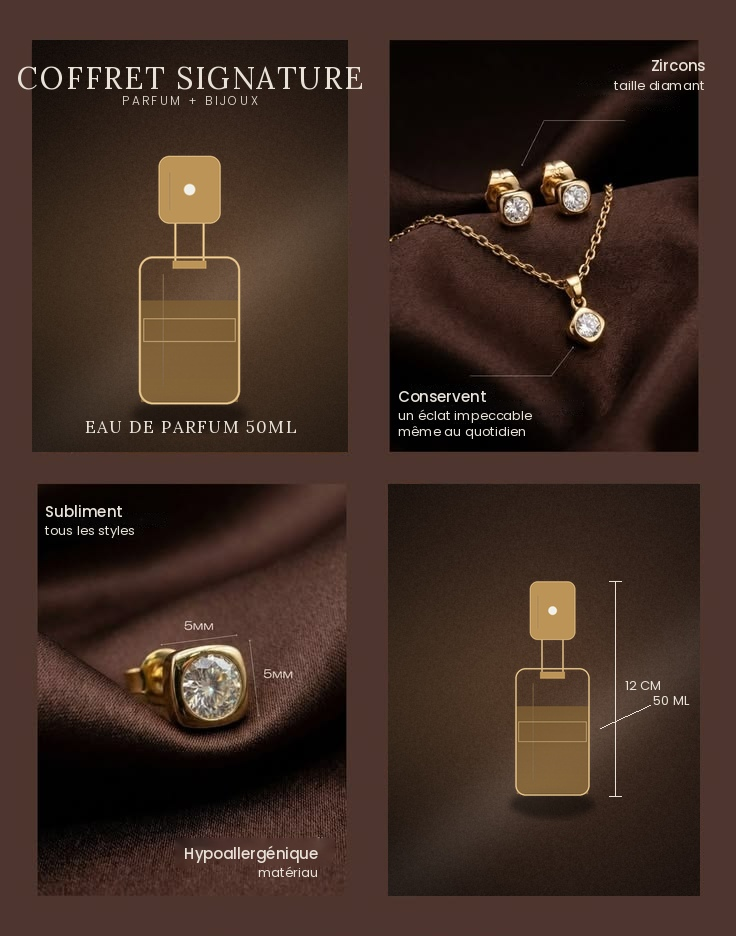
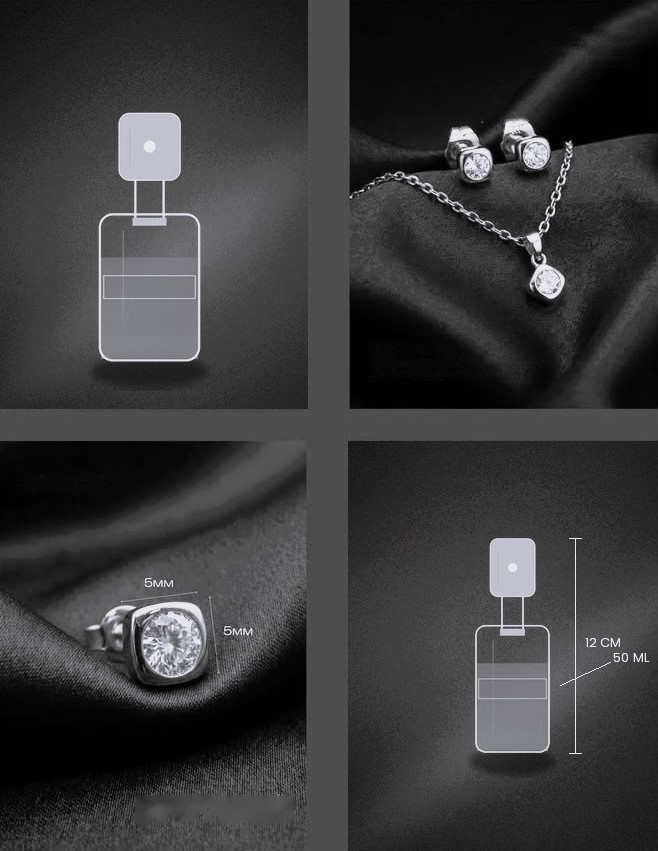
changes

diff --git a/components/shared/Footer.tsx b/components/shared/Footer.tsx
@@ -101,6 +101,21 @@ export function Footer() {
                   <path fill="#fff" fill-rule="evenodd" d="M19.268,16.045c-0.355-0.79-0.729-0.806-1.068-0.82c-0.277-0.012-0.593-0.011-0.909-0.011c-0.316,0-0.83,0.119-1.265,0.594c-0.435,0.475-1.661,1.622-1.661,3.956c0,2.334,1.7,4.59,1.937,4.906c0.237,0.316,3.282,5.259,8.104,7.161c4.007,1.58,4.823,1.266,5.693,1.187c0.87-0.079,2.807-1.147,3.202-2.255c0.395-1.108,0.395-2.057,0.277-2.255c-0.119-0.198-0.435-0.316-0.909-0.554s-2.807-1.385-3.242-1.543c-0.435-0.158-0.751-0.237-1.068,0.238c-0.316,0.474-1.225,1.543-1.502,1.859c-0.277,0.317-0.554,0.357-1.028,0.119c-0.474-0.238-2.002-0.738-3.815-2.354c-1.41-1.257-2.362-2.81-2.639-3.285c-0.277-0.474-0.03-0.731,0.208-0.968c0.213-0.213,0.474-0.554,0.712-0.831c0.237-0.277,0.316-0.475,0.474-0.791c0.158-0.317,0.079-0.594-0.04-0.831C20.612,19.329,19.69,16.983,19.268,16.045z" clip-rule="evenodd"></path>
                 </svg>
               </a>
+              {/* TikTok */}
+              <a
+                href="https://www.tiktok.com/@accessoires_exclusifs"
+                target="_blank"
+                rel="noopener noreferrer"
+                className="p-2 bg-foreground/5 hover:bg-foreground/10 rounded-xl transition-all hover:scale-105"
+                aria-label="TikTok"
+              >
+                <svg xmlns="http://www.w3.org/2000/svg" viewBox="0 0 48 48" className="w-5 h-5">
+                  <path fill="#212121" fillRule="evenodd" d="M10.904,6h26.191C39.804,6,42,8.196,42,10.904v26.191C42,39.804,39.804,42,37.096,42H10.904C8.196,42,6,39.804,6,37.096V10.904C6,8.196,8.196,6,10.904,6z" clipRule="evenodd" />
+                  <path fill="#ec407a" fillRule="evenodd" d="M29.208,20.607c1.576,1.126,3.507,1.788,5.592,1.788v-4.011c-.395,0-.788-.041-1.174-.123v3.157c-2.085,0-4.015-.663-5.592-1.788v8.184c0,4.094-3.321,7.413-7.417,7.413-1.528,0-2.949-.462-4.129-1.254 1.347,1.376,3.225,2.23,5.303,2.23 4.096,0,7.417-3.319,7.417-7.413V20.607z" clipRule="evenodd" />
+                  <path fill="#fff" fillRule="evenodd" d="M28.034,19.63c1.576,1.126,3.507,1.788,5.592,1.788v-3.157c-1.164-.248-2.194-.856-2.969-1.701-1.326-.827-2.281-2.191-2.561-3.788h-2.923V28.79c-.007,1.867-1.523,3.379-3.393,3.379-1.102,0-2.081-.525-2.701-1.338-1.107-.558-1.866-1.705-1.866-3.029 0-1.873,1.519-3.391,3.393-3.391.359,0,.705.056,1.03.159V21.38c-4.024.083-7.26,3.369-7.26,7.411 0,2.018.806,3.847,2.114,5.183 1.18.792,2.601,1.254,4.129,1.254 4.096,0,7.417-3.319,7.417-7.413V19.63z" clipRule="evenodd" />
+                  <path fill="#81d4fa" fillRule="evenodd" d="M33.626,18.262v-.854c-1.05.002-2.078-.292-2.969-.848.788.863,1.826,1.458,2.969,1.702z M28.095,12.772c-.027-.153-.047-.306-.061-.461v-.516h-4.036v16.019c-.006,1.867-1.523,3.379-3.393,3.379-.549,0-1.067-.13-1.526-.362.62.813,1.599,1.338,2.701,1.338 1.87,0,3.386-1.512,3.393-3.379V12.772h2.922z M21.635,21.38v-.909c-.337-.046-.677-.069-1.018-.069-4.097,0-7.417,3.319-7.417,7.413 0,2.567,1.305,4.829,3.288,6.159-1.308-1.336-2.114-3.165-2.114-5.183 0-4.042,3.237-7.328,7.261-7.411z" clipRule="evenodd" />
+                </svg>
+              </a>
             </div>
           </div>
 

diff --git a/services/fcmService.ts b/services/fcmService.ts
@@ -25,7 +25,6 @@ import {
 } from 'firebase/messaging';
 import { firebaseApp } from '@/lib/firebase';
 import { deviceService } from './deviceService';
-import { useToastStore } from '@/store/useToastStore';
 import type { User } from '@/types';
 
 /**
@@ -225,7 +224,6 @@ async function initializeFCMInternal(user: User | null): Promise<string | null> 
     const permission = await requestNotificationPermission();
     if (permission !== 'granted') {
       console.warn('[FCM Service] Notification permission not granted');
-      useToastStore.getState().addToast("Autorisation de notification refusée. Veuillez activer les notifications dans les paramètres de votre navigateur.", 'info');
       return null;
     }
 
@@ -233,7 +231,6 @@ async function initializeFCMInternal(user: User | null): Promise<string | null> 
     const swRegistration = await registerServiceWorker();
     if (!swRegistration) {
       console.warn('[FCM Service] Failed to register Service Worker');
-      useToastStore.getState().addToast("Échec de l'activation des notifications push (erreur Service Worker).", 'error');
       return null;
     }
 
@@ -241,7 +238,6 @@ async function initializeFCMInternal(user: User | null): Promise<string | null> 
     const messaging = getFirebaseMessaging();
     if (!messaging) {
       console.error('[FCM Service] Failed to get Firebase messaging instance');
-      useToastStore.getState().addToast("Échec de l'activation des notifications (Firebase non disponible).", 'error');
       return null;
     }
 
@@ -253,7 +249,6 @@ async function initializeFCMInternal(user: User | null): Promise<string | null> 
 
     if (!token) {
       console.warn('[FCM Service] Failed to retrieve FCM token');
-      useToastStore.getState().addToast("Aucun identifiant de notification reçu de Firebase.", 'error');
       return null;
     }
 
@@ -264,16 +259,13 @@ async function initializeFCMInternal(user: User | null): Promise<string | null> 
     // 5. Register device with backend
     try {
       await deviceService.registerDevice(token);
-      useToastStore.getState().addToast("Notifications push configurées avec succès sur cet appareil !", 'success');
     } catch (error) {
       console.warn('[FCM Service] Failed to register device with backend:', error);
-      useToastStore.getState().addToast("Notifications obtenues localement mais échec de la synchronisation avec le serveur.", 'info');
     }
 
     return token;
   } catch (error: any) {
     console.error('[FCM Service] Error during FCM initialization:', error);
-    useToastStore.getState().addToast(`Erreur d'initialisation des notifications: ${error.message || error}`, 'error');
     return null;
   }
 }

diff --git a/components/shared/Navbar.tsx b/components/shared/Navbar.tsx
@@ -25,6 +25,7 @@ const NAV_LABEL_MAP: Record<string, { fr: string; en: string }> = {
   '/shop/accessories': { fr: 'Accessoires', en: 'Accessories' },
   '/shop/perfumes': { fr: 'Parfumerie', en: 'Perfumes' },
   '/shop/diffuseurs': { fr: 'Diffuseurs', en: 'Diffusers' },
+  '/reels': { fr: 'Reels', en: 'Reels' },
   '/numba': { fr: 'Atelier Numba', en: 'Numba Workshop' },
 };
 
@@ -76,13 +77,13 @@ export function Navbar() {
   return (
     <header className="fixed top-0 left-0 right-0 z-50">
       {/* Mobile offline banner — sits between phone status bar and nav content */}
-      <div className="lg:hidden">
+      <div className="md:hidden">
         <MobileOfflineBanner />
       </div>
       <div className="absolute inset-x-0 top-0 h-0.5 bg-gold opacity-0" />
 
       {/* MOBILE */}
-      <div className="flex items-center lg:hidden bg-background border-b border-foreground/10 px-4 py-2.5 relative">
+      <div className="flex items-center md:hidden bg-background border-b border-foreground/10 px-4 py-2.5 relative">
         <div className="flex items-center gap-3  flex-shrink-0">
           <LanguageSelector />
           {isAuthenticated && user ? (
@@ -137,7 +138,7 @@ export function Navbar() {
       </div>
 
       {/* DESKTOP */}
-      <nav className={cn('hidden lg:block transition-all duration-300', scrolled ? 'py-2.5' : 'py-4')}>
+      <nav className={cn('hidden md:block transition-all duration-300', scrolled ? 'py-2.5' : 'py-4')}>
         <div className="max-w-7xl mx-auto px-4 sm:px-6 lg:px-8">
           <div className="flex items-center justify-between relative">
             <Link href="/" className={cn( 'flex items-center gap-2 group flex-shrink-0 z-10 px-2')}>

diff --git a/hooks/useFCM.ts b/hooks/useFCM.ts
@@ -82,10 +82,6 @@ export function useFCM(options: UseFCMOptions = {}) {
         if (isMounted && token) {
           console.log('[useFCM] FCM initialized successfully');
 
-          if (enableToasts) {
-            addToast('Notifications activées', 'success');
-          }
-
           // Setup foreground message listener after FCM is initialized
           setupForegroundMessageListener(async (payload) => {
             console.log('[useFCM] Foreground message received:', payload);
@@ -119,9 +115,6 @@ export function useFCM(options: UseFCMOptions = {}) {
         }
       } catch (error) {
         console.error('[useFCM] Error during FCM setup:', error);
-        if (isMounted && enableToasts) {
-          addToast('Erreur lors de l\'initialisation des notifications', 'error');
-        }
       }
     })();
 
@@ -166,9 +159,6 @@ export function useFCMWithStatus(options: UseFCMOptions = {}) {
         if (isMounted) {
           if (token) {
             setFcmStatus('ready');
-            if (enableToasts) {
-              addToast('Notifications activées', 'success');
-            }
 
             setupForegroundMessageListener((payload) => {
               if (onMessage) {
@@ -189,9 +179,6 @@ export function useFCMWithStatus(options: UseFCMOptions = {}) {
         console.error('[useFCMWithStatus] Error:', error);
         if (isMounted) {
           setFcmStatus('error');
-          if (enableToasts) {
-            addToast('Erreur lors de l\'initialisation des notifications', 'error');
-          }
         }
       }
     })();

diff --git a/app/(auth)/layout.tsx b/app/(auth)/layout.tsx
@@ -41,7 +41,7 @@ export default function AuthLayout({ children }: { children: React.ReactNode }) 
     >
       {/* photo */}
       <div
-        className="absolute bg-cover bg-center  "
+        className="absolute inset-0 bg-cover bg-center"
         style={{ backgroundImage: "url('/flyerlogin.jpg')" }}
       />
       {/* animated gold sheen */}
@@ -51,9 +51,8 @@ export default function AuthLayout({ children }: { children: React.ReactNode }) 
         animate={{ rotate: [0, 360] }}
         transition={{ duration: 40, repeat: Infinity, ease: 'linear' }}
       />
+      <div className="absolute inset-0 bg-deep-black/35" aria-hidden />
       <div className="absolute inset-0 bg-gradient-to-t from-deep-black via-deep-black/20 to-transparent" />
-      <div className="absolute "
-          style={{ backgroundImage: "url('/flyerlogin.jpg')" }} />
 
       <div className="relative z-10 w-full p-12 flex flex-col justify-between h-full">
         <Link href="/" className="flex items-center gap-2 group w-fit">
@@ -63,7 +62,7 @@ export default function AuthLayout({ children }: { children: React.ReactNode }) 
             className="h-30 w-31 object-contain invert group-hover:scale-105 transition-transform duration-300"
           />
           <span className="font-display text-2xl font-bold tracking-tight text-foreground">
-            <span className="text-gold">Accessories</span> Exclusifs
+            <span className="text-gold">Accessoires</span> Exclusifs
           </span>
         </Link>
 

diff --git a/components/shared/LayoutWrapper.tsx b/components/shared/LayoutWrapper.tsx
@@ -50,11 +50,11 @@ export function LayoutWrapper({ children }: { children: React.ReactNode }) {
       {!shouldHideNav && (
         <Navbar />
       )}
-      <main className={`flex-1 ${!shouldHideNav ? 'pb-32 lg:pb-0' : ''}`}>
+      <main className={`flex-1 ${!shouldHideNav ? 'pb-32 md:pb-0' : ''}`}>
         {children}
       </main>
       {!shouldHideNav && (
-        <div className="lg:hidden">
+        <div className="md:hidden">
           <BottomNav />
         </div>
       )}

diff --git a/lib/constants.ts b/lib/constants.ts
@@ -135,6 +135,7 @@ export const PUBLIC_NAV_LINKS: NavLink[] = [
   { label: 'Accessoires', href: '/shop/accessories' },
   { label: 'Parfumerie', href: '/shop/perfumes' },
   { label: 'Diffuseurs', href: '/shop/diffuseurs' },
+  { label: 'Reels', href: '/reels' },
   { label: 'Atelier Numba', href: '/numba' },
 ];
 
